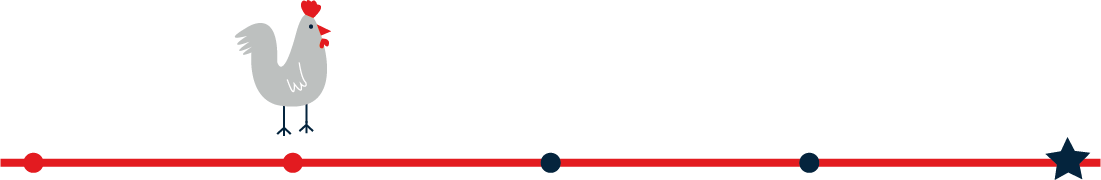
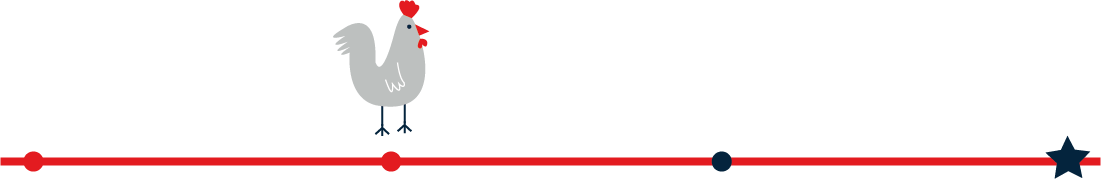
transition-base

diff --git a/app/transitionbase_2.html b/app/transitionbase_2.html
@@ -1,0 +1,53 @@
+<!DOCTYPE html>
+<html>
+
+<head>	
+	<title>Cocorico</title>
+
+	<meta name="viewport" content="width=device-width, initial-scale=1">
+	<meta charset="utf-8" />
+
+	<link rel="stylesheet" href="http://code.jquery.com/mobile/1.2.0/jquery.mobile-1.2.0.min.css" />
+	<link rel="stylesheet" href="css/app.css" />
+
+	<script src="http://code.jquery.com/jquery-1.8.2.min.js"></script>
+	<script src="http://code.jquery.com/mobile/1.2.0/jquery.mobile-1.2.0.min.js"></script>
+	<script src="js/cordova-2.2.0.js"></script>
+</head>
+
+<body>
+
+<div data-role="page" data-theme="a">
+	<div data-role="header">
+		<h1>
+		<img src="img/cocorico.png" style="width:auto; height:100px"/>
+		</h1>
+	</div>
+        
+    	<h1>
+		<img src="img/2.png" style="auto; height:100px; margin-left:30%;"/>
+		</h1>
+
+
+	<div data-role="content" >
+        <div class="aller" style="margin-bottom:30px;">
+            <div data-role="navbar" data-iconpos="top">
+            <ul>
+                <li><a href="#">Allez à l'Homme de Fer</a></li>
+            </ul>
+            </div>
+        </div>
+        
+		<div class="carte" style="margin-left:25%">
+        <img src="img/hommedefer.png" style="width:70%; height:auto;"/>
+        </div>
+	</div>
+    		<a href="quetebase.html" data-role="button" data-icon="arrow-r" data-iconpos="right">J'y suis</a>
+
+    <div data-role="footer" >
+	</div>
+
+</div>
+
+</body>
+</html>

diff --git a/app/transitionbase_3.html b/app/transitionbase_3.html
@@ -1,0 +1,53 @@
+<!DOCTYPE html>
+<html>
+
+<head>	
+	<title>Cocorico</title>
+
+	<meta name="viewport" content="width=device-width, initial-scale=1">
+	<meta charset="utf-8" />
+
+	<link rel="stylesheet" href="http://code.jquery.com/mobile/1.2.0/jquery.mobile-1.2.0.min.css" />
+	<link rel="stylesheet" href="css/app.css" />
+
+	<script src="http://code.jquery.com/jquery-1.8.2.min.js"></script>
+	<script src="http://code.jquery.com/mobile/1.2.0/jquery.mobile-1.2.0.min.js"></script>
+	<script src="js/cordova-2.2.0.js"></script>
+</head>
+
+<body>
+
+<div data-role="page" data-theme="a">
+	<div data-role="header">
+		<h1>
+		<img src="img/cocorico.png" style="width:auto; height:100px"/>
+		</h1>
+	</div>
+        
+    	<h1>
+		<img src="img/3.png" style="auto; height:100px; margin-left:30%;"/>
+		</h1>
+
+
+	<div data-role="content" >
+        <div class="aller" style="margin-bottom:30px;">
+            <div data-role="navbar" data-iconpos="top">
+            <ul>
+                <li><a href="#">Allez à la Cathédrale</a></li>
+            </ul>
+            </div>
+        </div>
+		<div class="carte" style="margin-left:25%">
+        <img src="img/notredame.png" style="width:70%; height:auto;"/>
+        </div>
+	</div>
+    	
+        <a href="quetebase.html" data-role="button" data-icon="arrow-r" data-iconpos="right">J'y suis</a>
+
+    <div data-role="footer" >
+	</div>
+
+</div>
+
+</body>
+</html>

diff --git a/app/transitionbase_1.html b/app/transitionbase_1.html
@@ -1,0 +1,52 @@
+<!DOCTYPE html>
+<html>
+
+<head>	
+	<title>Cocorico</title>
+
+	<meta name="viewport" content="width=device-width, initial-scale=1">
+	<meta charset="utf-8" />
+
+	<link rel="stylesheet" href="http://code.jquery.com/mobile/1.2.0/jquery.mobile-1.2.0.min.css" />
+	<link rel="stylesheet" href="css/app.css" />
+
+	<script src="http://code.jquery.com/jquery-1.8.2.min.js"></script>
+	<script src="http://code.jquery.com/mobile/1.2.0/jquery.mobile-1.2.0.min.js"></script>
+	<script src="js/cordova-2.2.0.js"></script>
+</head>
+
+<body>
+
+<div data-role="page" data-theme="a">
+	<div data-role="header">
+		<h1>
+		<img src="img/cocorico.png" style="width:auto; height:100px;"/>
+		</h1>
+	</div>
+    
+    	<h1>
+		<img src="img/1.png" style="auto; height:100px; margin-left:30%;"/>
+		</h1>
+
+	<div data-role="content" >
+  		<div class="aller" style="margin-bottom:30px;">
+            <div data-role="navbar" data-iconpos="top">
+            <ul>
+                <li><a href="#">Allez à la Petite France</a></li>
+            </ul>
+            </div>
+        </div>
+        
+		<div class="carte" style="margin-left:25%">
+        <img src="img/petite-france.png" style="width:70%; height:auto;"/>
+        </div>
+	</div>
+    		<a href="quetebase.html" data-role="button" data-icon="arrow-r" data-iconpos="right">J'y suis</a>
+
+    <div data-role="footer" >
+	</div>
+
+</div>
+
+</body>
+</html>

diff --git a/app/transitionbase.html b/app/transitionbase.html
@@ -1,0 +1,44 @@
+<!DOCTYPE html>
+<html>
+
+<head>	
+	<title>Cocorico</title>
+
+	<meta name="viewport" content="width=device-width, initial-scale=1">
+	<meta charset="utf-8" />
+
+	<link rel="stylesheet" href="http://code.jquery.com/mobile/1.2.0/jquery.mobile-1.2.0.min.css" />
+	<link rel="stylesheet" href="css/app.css" />
+
+	<script src="http://code.jquery.com/jquery-1.8.2.min.js"></script>
+	<script src="http://code.jquery.com/mobile/1.2.0/jquery.mobile-1.2.0.min.js"></script>
+	<script src="js/cordova-2.2.0.js"></script>
+</head>
+
+<body>
+
+<div data-role="page" data-theme="a">
+	<div data-role="header">
+		<h1>
+		<img src="img/logo.jpg"/>LOGO
+		</h1>
+	</div>
+
+	<div data-role="content" >
+    	<div class="presentation" style="width:auto; height:auto;"/>
+        <h2>Allez à Strasbourg</h2>
+       </div>
+        
+		<div class="carte" style="margin-left:30%">
+        <img src="img/mapstrasbourg.png" style="width:50%; height:auto;"/>
+        </div>
+	</div>
+    		<a href="quetebase.html" data-role="button" data-icon="arrow-r" data-iconpos="right">J'y suis</a>
+
+    <div data-role="footer" >
+	</div>
+
+</div>
+
+</body>
+</html>
